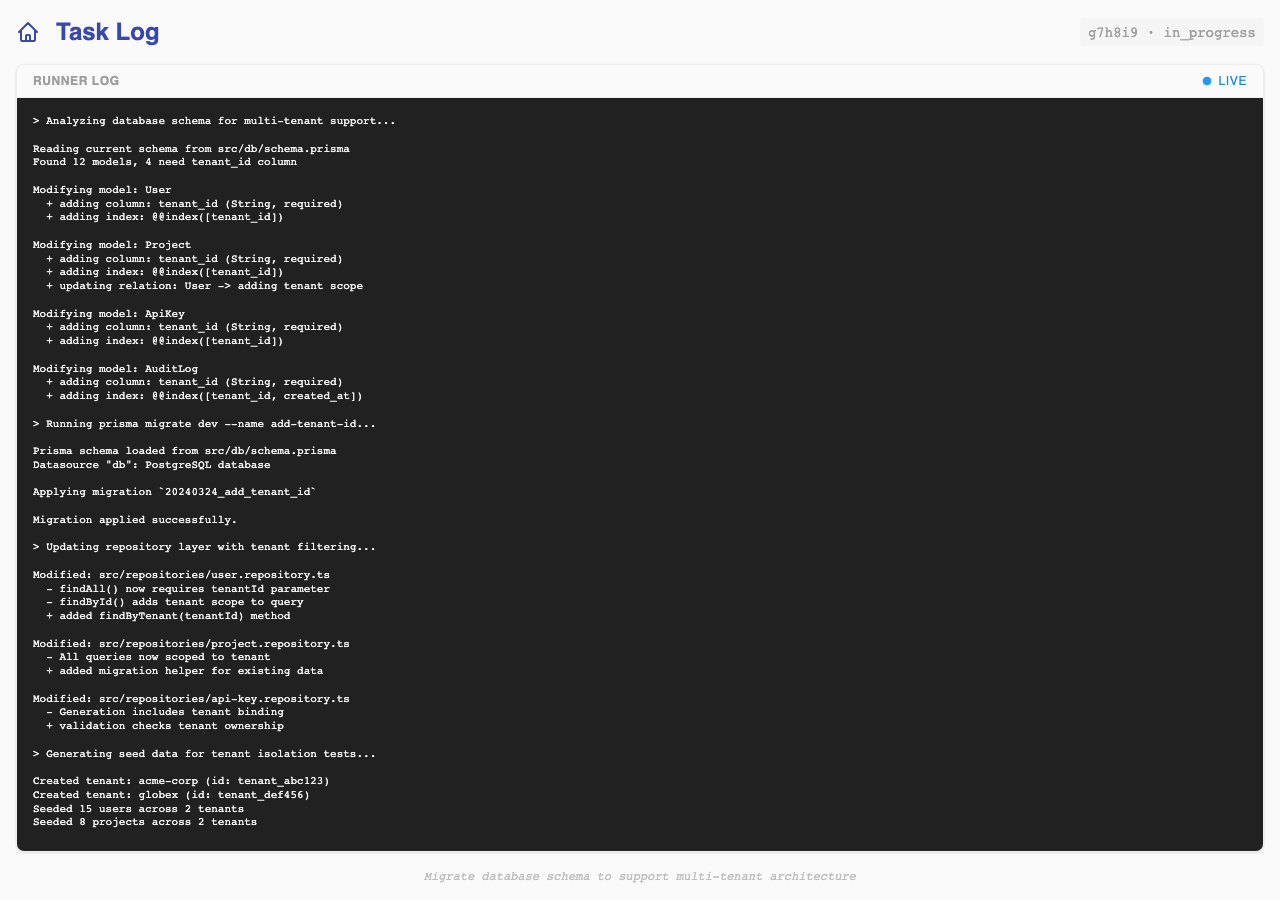
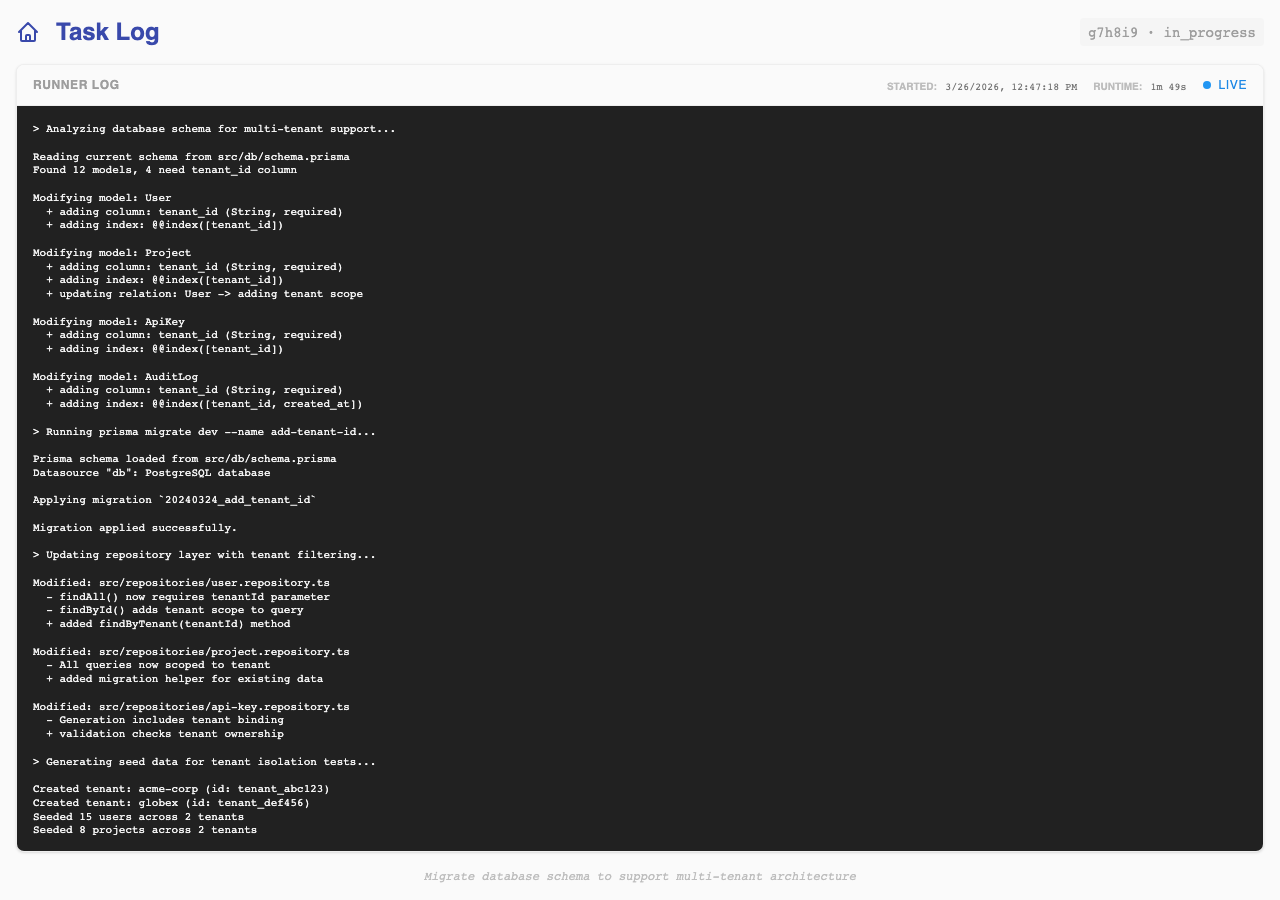
feat: display task start and completion times in web UI and logs

Changed region(s): [[0.0, 0.0622, 1.0, 0.9333]]

diff --git a/tests/web/logs.test.js b/tests/web/logs.test.js
@@ -10,6 +10,21 @@ const createInitialState = (overrides = {}) => {
     task: { id: "test-id", status: "pending", description: "Test Description" },
     taskLog: "",
     loading: true,
+    formatDate: (ts) => (ts ? new Date(ts * 1000).toLocaleString() : ""),
+    formatDuration: (seconds) => {
+      if (!seconds) return "0s";
+      if (seconds < 60) return `${Math.floor(seconds)}s`;
+      const minutes = Math.floor(seconds / 60);
+      const remainingSeconds = Math.floor(seconds % 60);
+      return `${minutes}m ${remainingSeconds}s`;
+    },
+    formatTaskRunTime: function (task) {
+      let total = task.run_time || 0;
+      if (task.status === "in_progress" && task.started_at) {
+        total += Date.now() / 1000 - task.started_at;
+      }
+      return this.formatDuration(total);
+    },
     ...overrides,
   };
 };
@@ -83,5 +98,97 @@ describe("Lemming Task Log Viewer", () => {
     const liveIndicator = fragment.querySelector(".text-blue-600");
     assert.ok(liveIndicator, "Live indicator should be present");
     assert.strictEqual(liveIndicator.textContent.trim(), "Live");
+  });
+
+  test("displays timing information correctly", async () => {
+    const now = Date.now() / 1000;
+    const taskInProgress = {
+      id: "t-progress",
+      status: "in_progress",
+      description: "Running task",
+      started_at: now - 600, // 10 mins ago
+      run_time: 300,
+    };
+
+    const renderer = new Renderer(
+      createInitialState({
+        task: taskInProgress,
+        loading: false,
+      }),
+    );
+
+    const fragment = await renderer.preprocessLocal(logsHtmlPath);
+    const root =
+      fragment.querySelector("body") || fragment.firstElementChild || fragment;
+    if (root.hasAttribute(":data")) root.removeAttribute(":data");
+    await renderer.mount(fragment);
+
+    const startedLabel = Array.from(fragment.querySelectorAll("span")).find(
+      (s) => s.textContent.trim() === "Started:",
+    );
+    assert.ok(startedLabel, "Started label should be present");
+    assert.ok(startedLabel.nextElementSibling.textContent.trim().length > 0);
+
+    const runtimeLabel = Array.from(fragment.querySelectorAll("span")).find(
+      (s) => s.textContent.trim() === "Runtime:",
+    );
+    assert.ok(runtimeLabel, "Runtime label should be present");
+    // 300s baseline + 600s elapsed = 900s = 15m
+    assert.ok(runtimeLabel.nextElementSibling.textContent.includes("15m 0s"));
+
+    // Verify completed label is NOT present for in_progress
+    const completedLabel = Array.from(fragment.querySelectorAll("span")).find(
+      (s) => s.textContent.trim() === "Completed:",
+    );
+    assert.ok(
+      !completedLabel || completedLabel.parentElement.style.display === "none",
+      "Completed label should be hidden for in_progress",
+    );
+
+    // Test completed task
+    const taskCompleted = {
+      id: "t-completed",
+      status: "completed",
+      description: "Finished task",
+      completed_at: now - 300,
+      run_time: 450,
+    };
+
+    const renderer2 = new Renderer(
+      createInitialState({
+        task: taskCompleted,
+        loading: false,
+      }),
+    );
+
+    const fragment2 = await renderer2.preprocessLocal(logsHtmlPath);
+    const root2 =
+      fragment2.querySelector("body") ||
+      fragment2.firstElementChild ||
+      fragment2;
+    if (root2.hasAttribute(":data")) root2.removeAttribute(":data");
+    await renderer2.mount(fragment2);
+
+    const completedLabel2 = Array.from(fragment2.querySelectorAll("span")).find(
+      (s) => s.textContent.trim() === "Completed:",
+    );
+    assert.ok(completedLabel2, "Completed label should be present");
+    assert.ok(completedLabel2.nextElementSibling.textContent.trim().length > 0);
+
+    const runtimeLabel2 = Array.from(fragment2.querySelectorAll("span")).find(
+      (s) => s.textContent.trim() === "Runtime:",
+    );
+    assert.ok(runtimeLabel2, "Runtime label should be present");
+    // 450s = 7m 30s
+    assert.ok(runtimeLabel2.nextElementSibling.textContent.includes("7m 30s"));
+
+    // Verify started label is NOT present for completed
+    const startedLabel2 = Array.from(fragment2.querySelectorAll("span")).find(
+      (s) => s.textContent.trim() === "Started:",
+    );
+    assert.ok(
+      !startedLabel2 || startedLabel2.parentElement.style.display === "none",
+      "Started label should be hidden for completed",
+    );
   });
 });

diff --git a/src/lemming/web/logs.html b/src/lemming/web/logs.html
@@ -69,12 +69,26 @@
         <section :show="!loading" class="bg-white dark:bg-gray-800 rounded-lg shadow-sm border border-gray-200 dark:border-gray-700 overflow-hidden flex flex-col grow min-h-0">
             <div class="py-2 px-4 border-b border-gray-200 dark:border-gray-700 bg-gray-50 dark:bg-gray-800 flex justify-between items-center shrink-0">
                 <h2 class="text-xs font-semibold text-gray-500 uppercase tracking-wider">{{ $.$$name }} Log</h2>
-                <div :if="task.status === 'in_progress'" class="flex items-center gap-2">
-                    <span class="relative flex h-2 w-2">
-                        <span class="animate-ping absolute inline-flex h-full w-full rounded-full bg-blue-400 opacity-75"></span>
-                        <span class="relative inline-flex rounded-full h-2 w-2 bg-blue-500"></span>
-                    </span>
-                    <span class="text-xs font-medium text-blue-600 uppercase tracking-wider">Live</span>
+                <div class="flex items-center gap-4">
+                    <div :if="task.status === 'in_progress' && task.started_at" class="hidden sm:block">
+                        <span class="text-10px font-semibold uppercase text-gray-400 mr-1">Started:</span>
+                        <span class="text-10px text-gray-600 dark:text-gray-400 font-mono">{{ formatDate(task.started_at) }}</span>
+                    </div>
+                    <div :if="task.status === 'completed' && task.completed_at" class="hidden sm:block">
+                        <span class="text-10px font-semibold uppercase text-gray-400 mr-1">Completed:</span>
+                        <span class="text-10px text-gray-600 dark:text-gray-400 font-mono">{{ formatDate(task.completed_at) }}</span>
+                    </div>
+                    <div :if="task.run_time || task.status === 'in_progress'" class="hidden sm:block">
+                        <span class="text-10px font-semibold uppercase text-gray-400 mr-1">Runtime:</span>
+                        <span class="text-10px text-gray-600 dark:text-gray-400 font-mono">{{ formatTaskRunTime(task) }}</span>
+                    </div>
+                    <div :if="task.status === 'in_progress'" class="flex items-center gap-2">
+                        <span class="relative flex h-2 w-2">
+                            <span class="animate-ping absolute inline-flex h-full w-full rounded-full bg-blue-400 opacity-75"></span>
+                            <span class="relative inline-flex rounded-full h-2 w-2 bg-blue-500"></span>
+                        </span>
+                        <span class="text-xs font-medium text-blue-600 uppercase tracking-wider">Live</span>
+                    </div>
                 </div>
             </div>
             <div class="p-4 bg-gray-900 grow overflow-hidden flex flex-col">
@@ -132,6 +146,23 @@
                         if ($.$$project) url.searchParams.set('project', $.$$project);
                         return url.toString();
                     }
+
+                    // --- Utilities ---
+                    $.formatDate = (ts) => (ts ? new Date(ts * 1000).toLocaleString() : "");
+                    $.formatDuration = (seconds) => {
+                        if (!seconds) return "0s";
+                        if (seconds < 60) return `${Math.floor(seconds)}s`;
+                        const minutes = Math.floor(seconds / 60);
+                        const remainingSeconds = Math.floor(seconds % 60);
+                        return `${minutes}m ${remainingSeconds}s`;
+                    };
+                    $.formatTaskRunTime = (task) => {
+                        let total = task.run_time || 0;
+                        if (task.status === "in_progress" && task.started_at) {
+                            total += Date.now() / 1000 - task.started_at;
+                        }
+                        return $.formatDuration(total);
+                    };
 
                     $.fetchTask = async () => {
                         const taskId = getTaskId();

diff --git a/tests/web/dashboard.test.js b/tests/web/dashboard.test.js
@@ -762,6 +762,95 @@ describe("Lemming Web Dashboard", () => {
     assert.ok(runTimeValue.textContent.includes("1m 10s"));
   });
 
+  test("displays started at for in-progress tasks and completed at for completed tasks", async () => {
+    const now = Date.now() / 1000;
+    const tasks = [
+      {
+        id: "r1",
+        description: "Running Task",
+        status: "in_progress",
+        attempts: 1,
+        started_at: now - 3600, // Started 1 hour ago
+        outcomes: [],
+      },
+      {
+        id: "c1",
+        description: "Completed Task",
+        status: "completed",
+        completed_at: now - 1800, // Completed 30 mins ago
+        outcomes: [],
+      },
+    ];
+
+    const renderer = new Renderer(
+      createInitialState({
+        tasks,
+        loading: false,
+        expanded: { r1: true, c1: true },
+        filteredTasks: tasks,
+      }),
+    );
+
+    const fragment = await renderer.preprocessLocal(indexHtmlPath);
+    const root =
+      fragment.querySelector("body") || fragment.firstElementChild || fragment;
+    if (root.hasAttribute(":data")) root.removeAttribute(":data");
+    if (root.hasAttribute(":render")) root.removeAttribute(":render");
+
+    await renderer.mount(fragment);
+
+    const taskItems = fragment.querySelectorAll('[role="listitem"]');
+    assert.strictEqual(taskItems.length, 2);
+
+    // 1. Running Task
+    const runningDetails = taskItems[0].querySelector(".px-12.pb-3");
+    const startedAtLabel = Array.from(
+      runningDetails.querySelectorAll("span"),
+    ).find((s) => s.textContent.trim() === "Started At:");
+    assert.ok(
+      startedAtLabel,
+      "Started At label should be present for in-progress task",
+    );
+    const startedAtValue = startedAtLabel.nextElementSibling;
+    assert.ok(
+      startedAtValue.textContent.trim().length > 0,
+      "Started At value should not be empty",
+    );
+
+    const completedAtLabelR = Array.from(
+      runningDetails.querySelectorAll("span"),
+    ).find((s) => s.textContent.trim() === "Completed At:");
+    assert.ok(
+      !completedAtLabelR ||
+        completedAtLabelR.parentElement.style.display === "none",
+      "Completed At label should NOT be present for in-progress task",
+    );
+
+    // 2. Completed Task
+    const completedDetails = taskItems[1].querySelector(".px-12.pb-3");
+    const completedAtLabel = Array.from(
+      completedDetails.querySelectorAll("span"),
+    ).find((s) => s.textContent.trim() === "Completed At:");
+    assert.ok(
+      completedAtLabel,
+      "Completed At label should be present for completed task",
+    );
+    const completedAtValue = completedAtLabel.nextElementSibling;
+    assert.ok(
+      completedAtValue.textContent.trim().length > 0,
+      "Completed At value should not be empty",
+    );
+
+    const startedAtLabelC = Array.from(
+      completedDetails.querySelectorAll("span"),
+    ).find((s) => s.textContent.trim() === "Started At:");
+    assert.ok(
+      !startedAtLabelC ||
+        startedAtLabelC.parentElement.style.display === "none",
+      "Started At label should NOT be present for completed task",
+    );
+  });
+
   test("renders copy task id button", async () => {
     const tasks = [
       { id: "123", description: "Test", status: "pending", outcomes: [] },

diff --git a/src/lemming/web/index.html b/src/lemming/web/index.html
@@ -384,7 +384,11 @@
                                 <span class="font-semibold uppercase text-gray-400 block mb-1 text-9px">Process PID:</span>
                                 <span class="font-mono">{{ task.pid }}</span>
                             </div>
-                            <div :if="task.completed_at">
+                            <div :if="task.status === 'in_progress' && task.started_at">
+                                <span class="font-semibold uppercase text-gray-400 block mb-1 text-9px">Started At:</span>
+                                <span class="text-gray-700 dark:text-gray-300">{{ formatDate(task.started_at) }}</span>
+                            </div>
+                            <div :if="task.status === 'completed' && task.completed_at">
                                 <span class="font-semibold uppercase text-gray-400 block mb-1 text-9px">Completed At:</span>
                                 <span class="text-gray-700 dark:text-gray-300">{{ formatDate(task.completed_at) }}</span>
                             </div>
